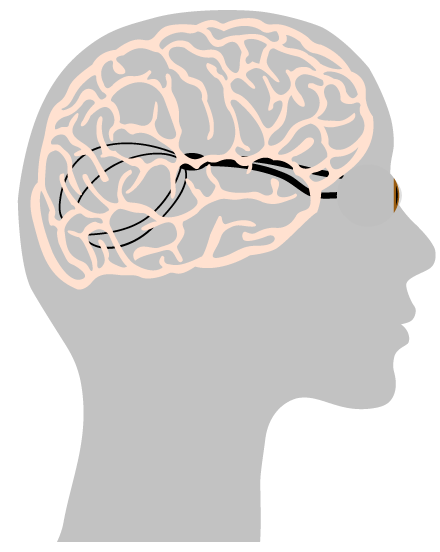
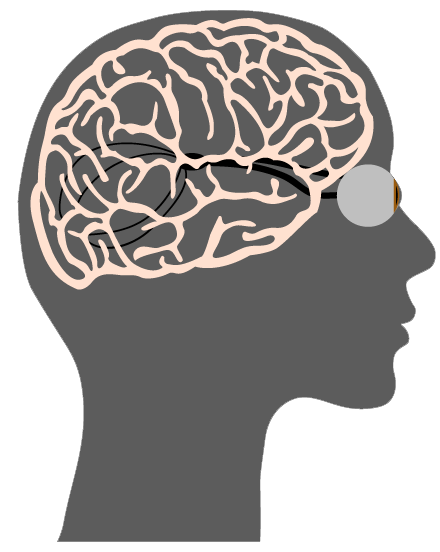
make head image opaque

diff --git a/js/rgb/view/ColorVisionScreenView.js b/js/rgb/view/ColorVisionScreenView.js
@@ -23,7 +23,7 @@ define( function( require ) {
   var flashlightDown = require( 'image!COLOR_VISION/flashlight-down.png' );
   var flashlight = require( 'image!COLOR_VISION/flashlight.png' );
   var flashlightUp = require( 'image!COLOR_VISION/flashlight-up.png' );
-  var head = require( 'image!COLOR_VISION/solid-head.png' );
+  var head = require( 'image!COLOR_VISION/head.png' );
 
   function ColorVisionScreenView( model ) {
 
